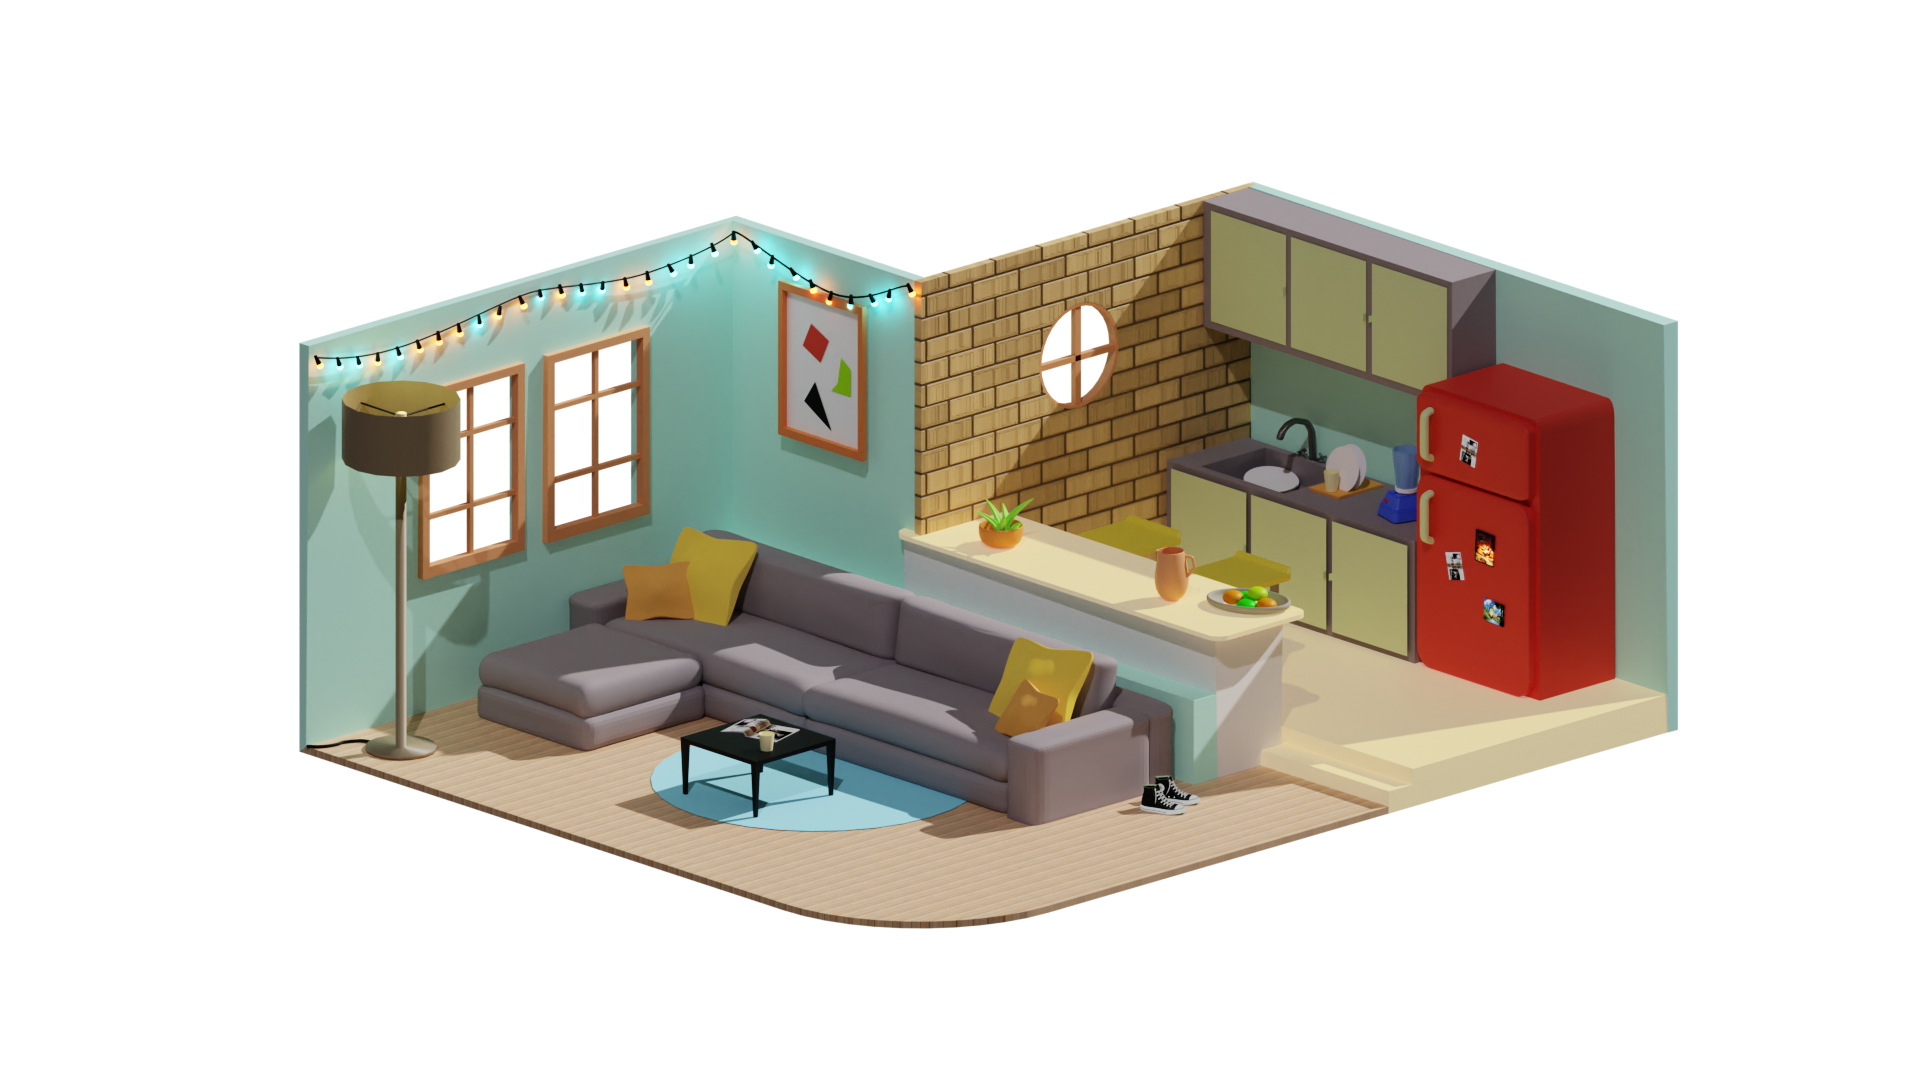
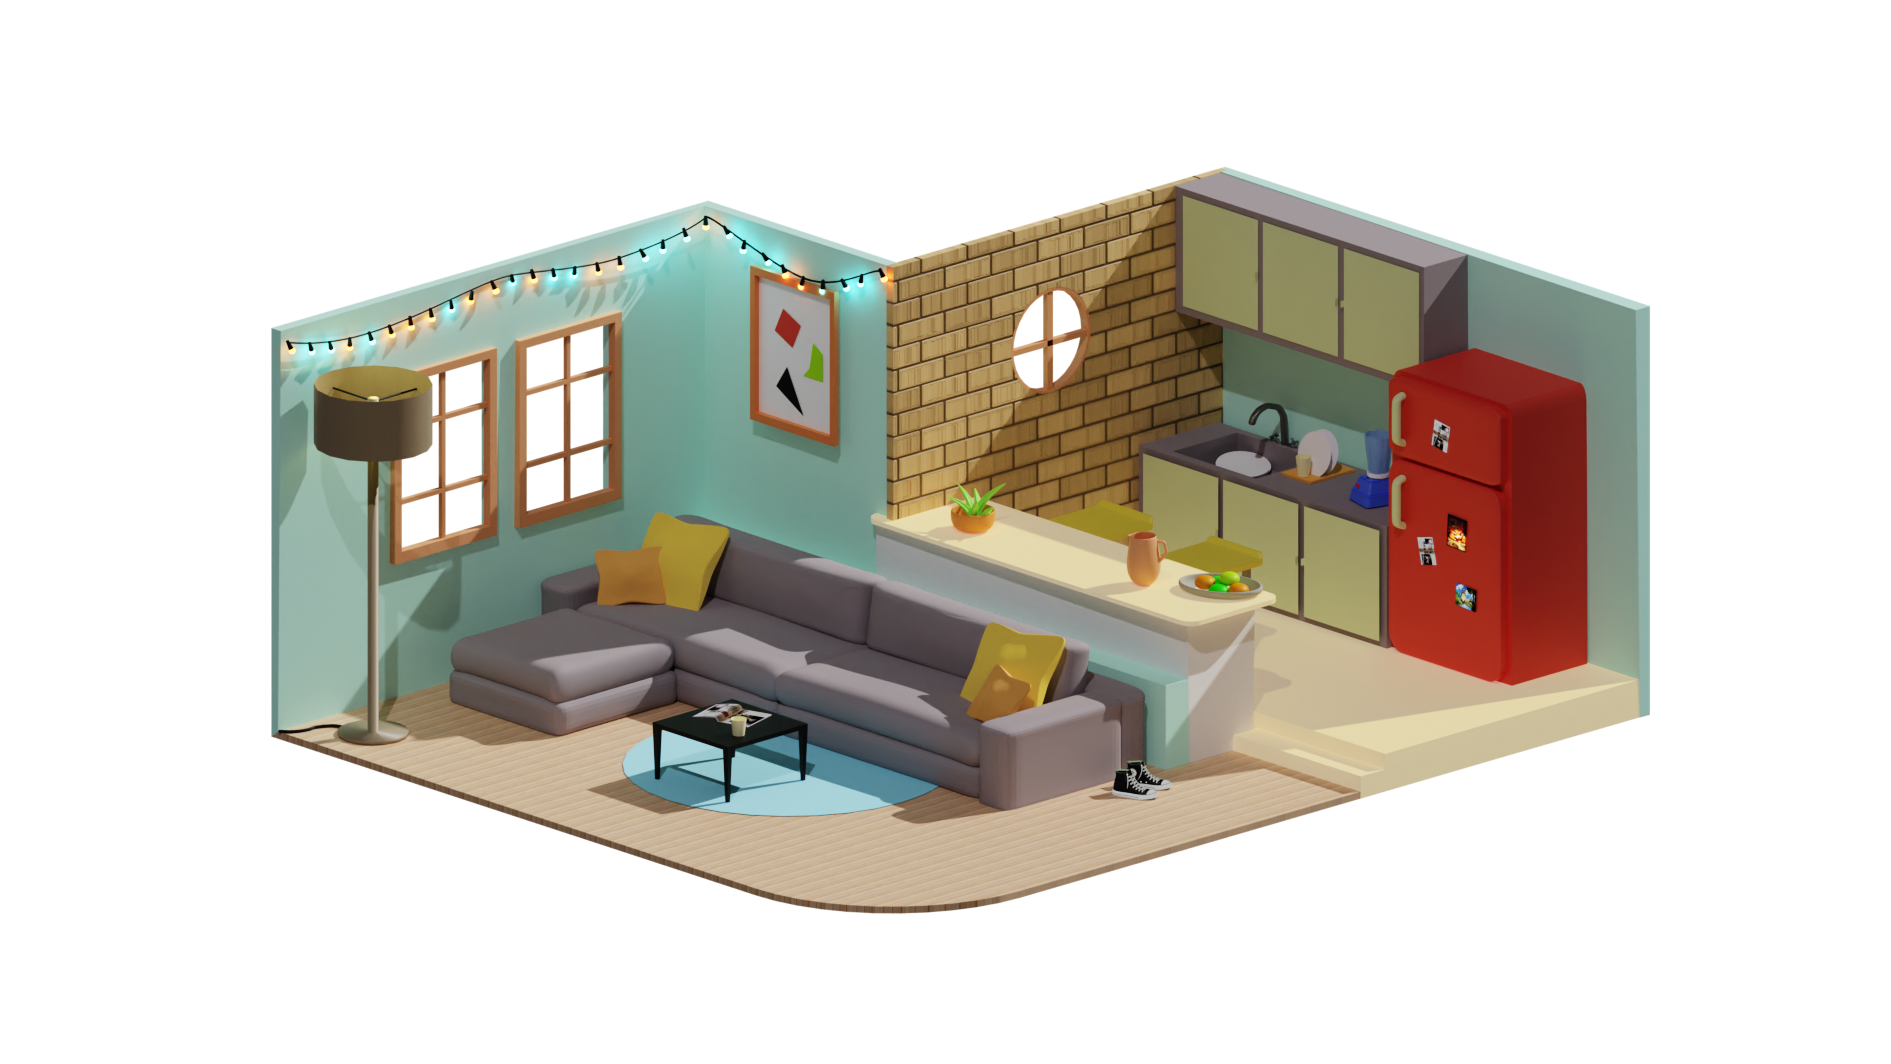
recadrage image

diff --git a/screens/Accueil.tsx b/screens/Accueil.tsx
@@ -142,12 +142,13 @@ const styles = StyleSheet.create({
         justifyContent:'center',
         marginLeft:'auto',
         marginRight:'auto',
-        marginTop: -20
+        marginTop: -20,
     },
 
     Image: {
         height: '100%',
         width: '100%',
+        translateX:-3,
     },
 
     CategorieBottom: {
